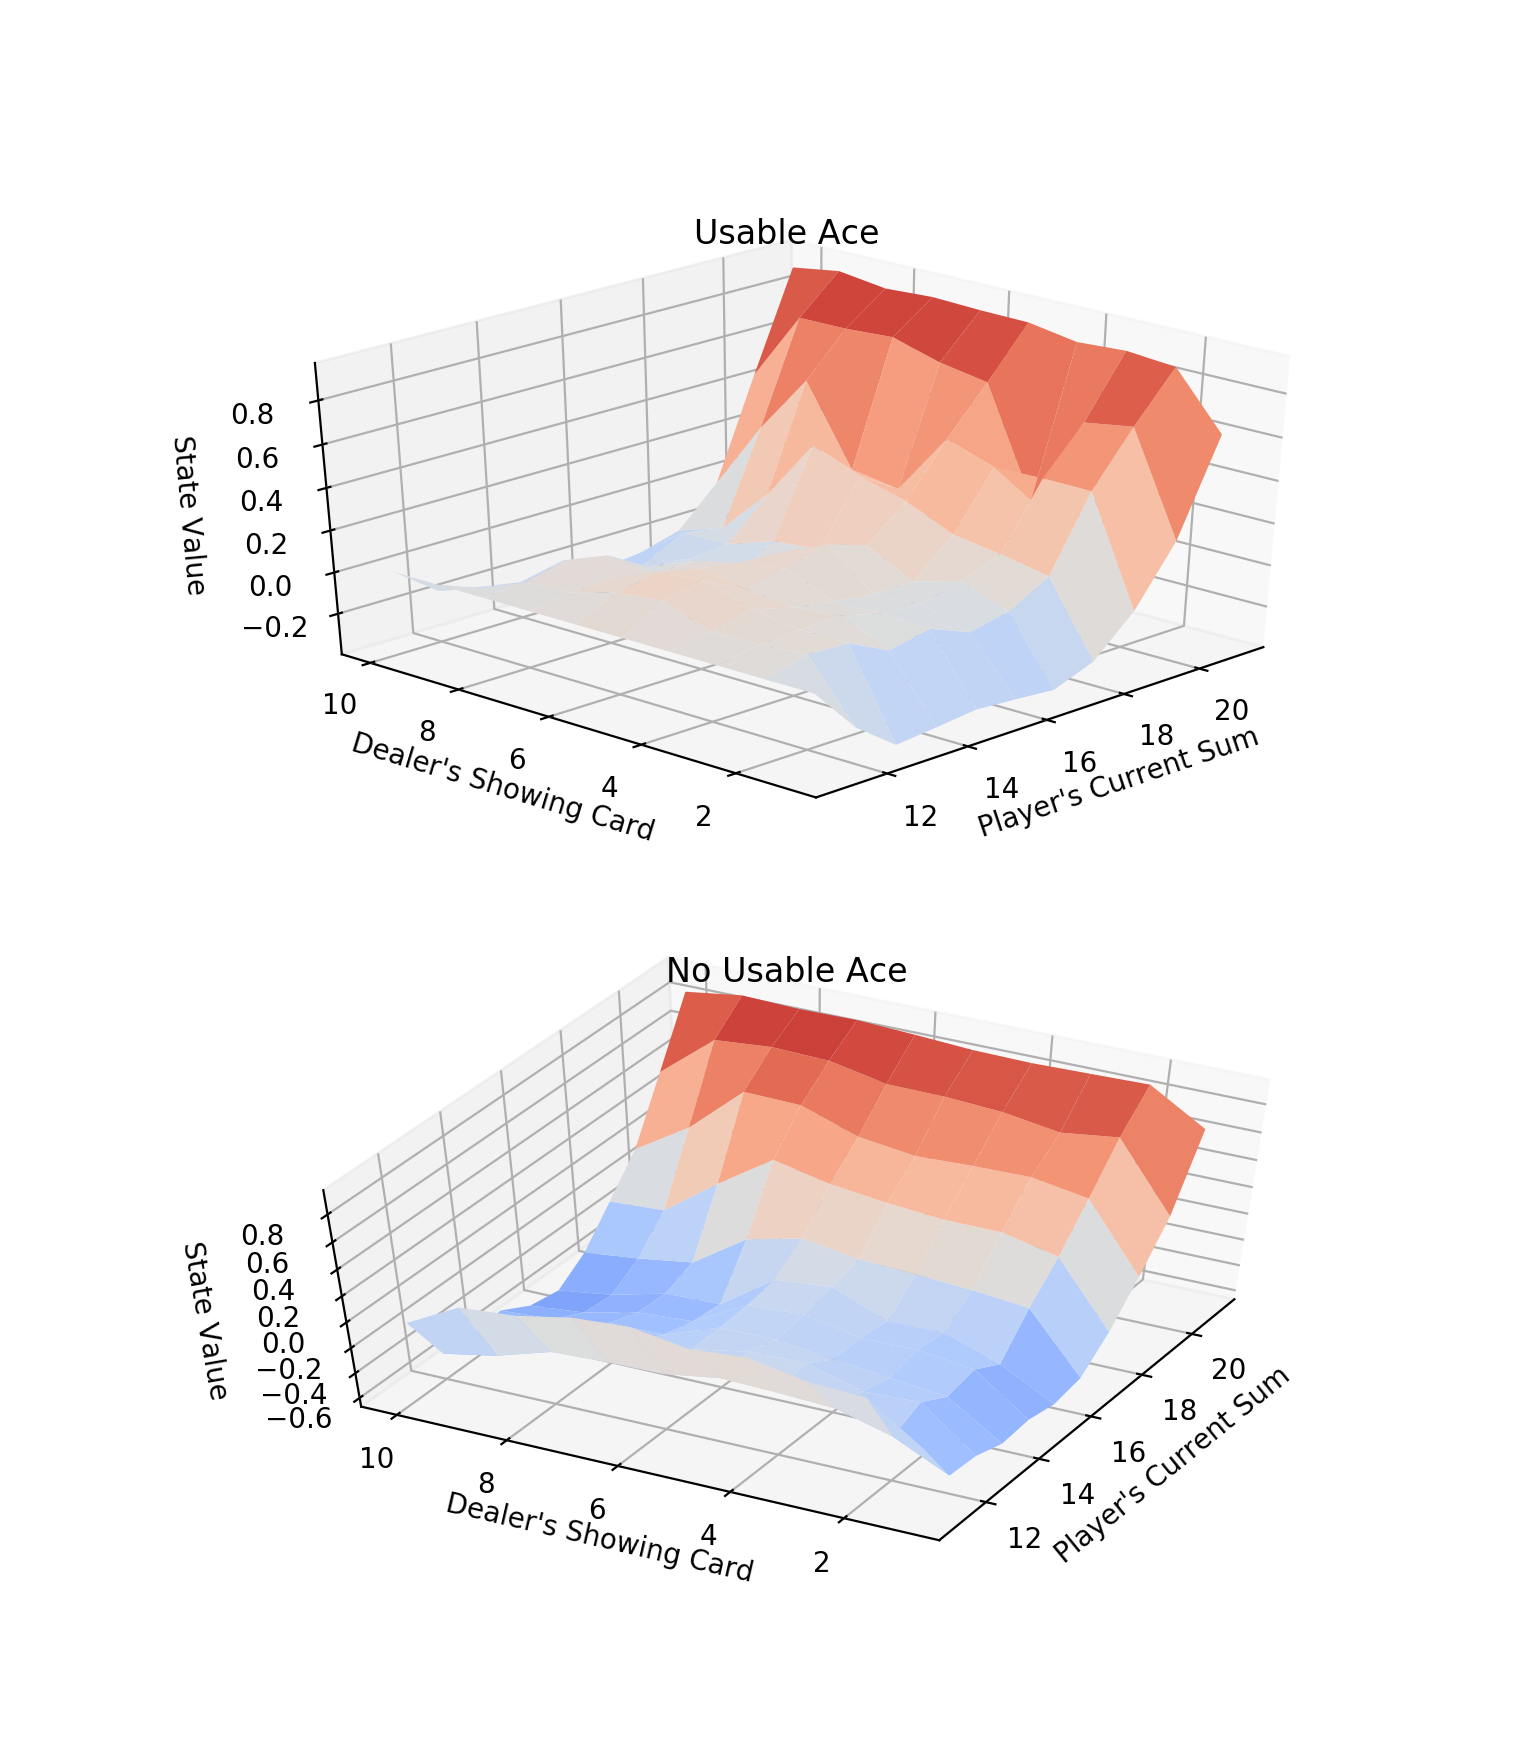
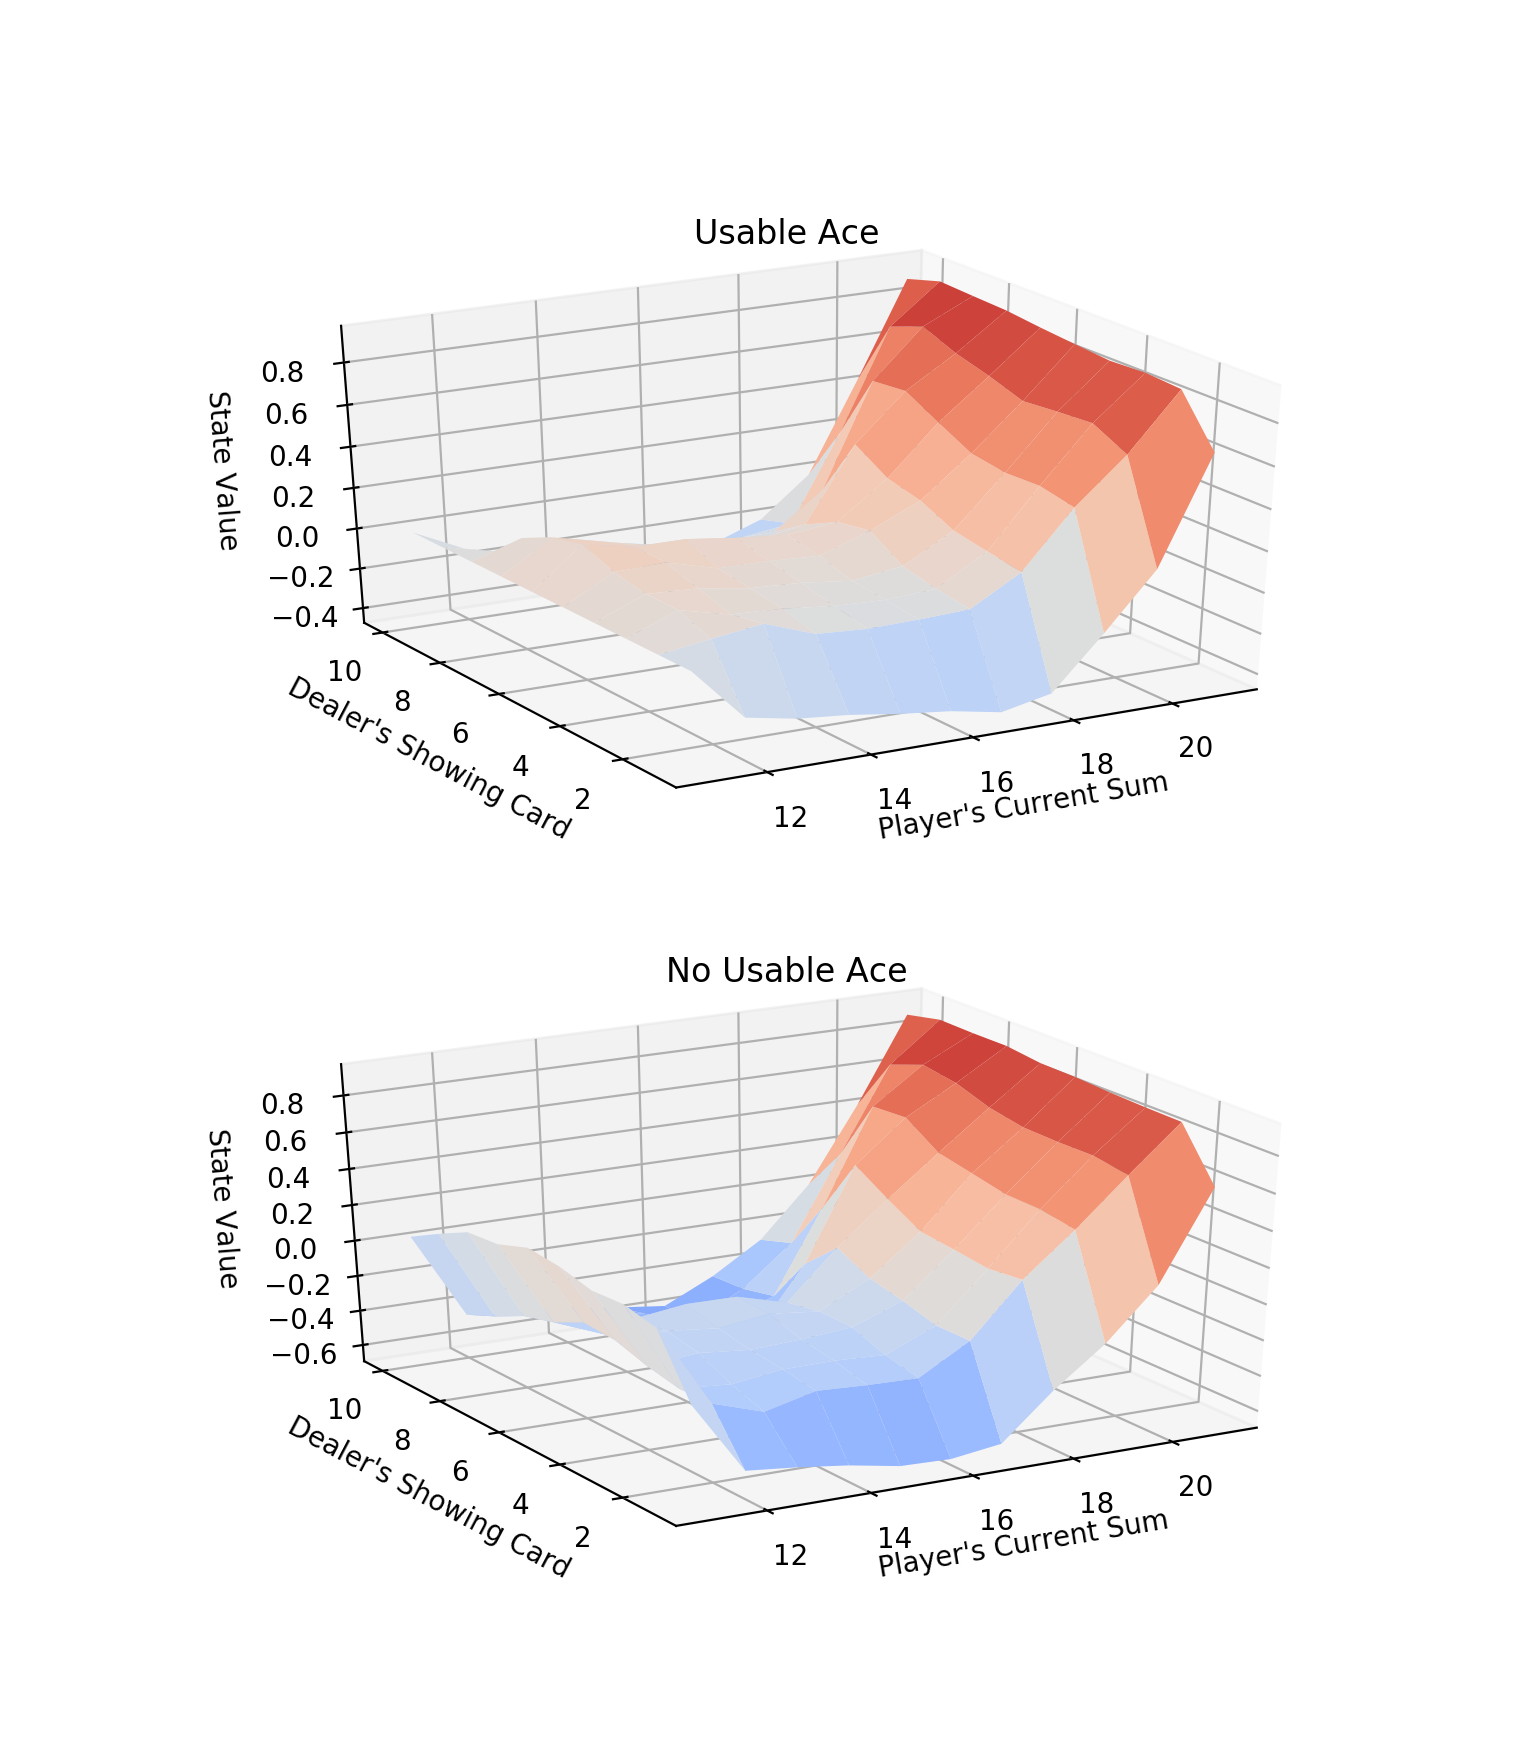
implemented reducing epsilon over time from example solution

Changed region(s): [[0.125, 0.5532, 0.8438, 0.8913], [0.0938, 0.1537, 0.8125, 0.4917]]

diff --git a/monte-carlo/play.py b/monte-carlo/play.py
@@ -95,14 +95,28 @@ def mc_prediction_q(env, num_episodes, generate_episode, gamma=1.0):
 
 
 #----------- ---
-# roll out episode, using Q and pi with epslion
-def generate_episode_using_pi(bj_env, pi, pi_epslion):
+# roll out episode, using Q and pi with epsilon
+def argmax(q_values):
+    top = float("-inf")
+    ties = []
+
+    for i in range(len(q_values)):
+        if q_values[i] > top:
+            top = q_values[i]
+            ties = []
+
+        if q_values[i] == top:
+            ties.append(i)
+
+    return np.random.choice(ties)
+
+def generate_episode_using_pi(bj_env, pi, pi_epsilon):
     episode = []
     state = bj_env.reset()
     while True:
         random_action = env.action_space.sample()
         greedy_action = pi[state] if state in pi else random_action
-        action = greedy_action if np.random.random() >= pi_epslion \
+        action = greedy_action if np.random.random() >= pi_epsilon \
             else random_action
         next_state, reward, done, info = bj_env.step(action)
         episode.append((state, action, reward))
@@ -129,13 +143,13 @@ def score_policy(policy, assessment_games = 100000):
     print ("Win rate =",  round(win_rate,1), \
         "%. Won", round(win_pc,1), "%. Lost", round(lost_pc,1), "%. Drawn", round(draw_pc,1), "%.")
 
-def mc_control(env, num_episodes, alpha, gamma=1.0):
+def mc_control(env, num_episodes, alpha, gamma=1.0, eps_start=1.0, eps_decay=.99999, eps_min=0.05):
     nA = env.action_space.n
     # initialize empty dictionary of arrays
     Q = defaultdict(lambda: np.zeros(nA))
     N = defaultdict(lambda: np.zeros(nA))
     policy = defaultdict(lambda: np.zeros(nA))
-    epslion = 0.1
+    epsilon = eps_start
     # loop over episodes
     for i_episode in range(1, num_episodes+1):
         # monitor progress
@@ -148,14 +162,14 @@ def mc_control(env, num_episodes, alpha, gamma=1.0):
             # score_policy(policy)
         
         ## TODO: complete the function
-        # roll out episode, using Q and pi with epslion
-        def generate_episode_using_pi(bj_env, pi, pi_epslion):
+        # roll out episode, using Q and pi with epsilon
+        def generate_episode_using_pi(bj_env, pi, pi_epsilon):
             episode = []
             state = bj_env.reset()
             while True:
                 random_action = env.action_space.sample()
                 greedy_action = pi[state] if state in pi else random_action
-                action = greedy_action if np.random.random() >= pi_epslion \
+                action = greedy_action if np.random.random() >= pi_epsilon \
                     else random_action
                 next_state, reward, done, info = bj_env.step(action)
                 episode.append((state, action, reward))
@@ -167,7 +181,8 @@ def mc_control(env, num_episodes, alpha, gamma=1.0):
         # sets the whole policy, but is slow
         # for s, v in Q.items():
         #     policy[s] = np.argmax(v)
-        episode = generate_episode_using_pi(env, policy, epslion)
+        epsilon = max(epsilon*eps_decay, eps_min)
+        episode = generate_episode_using_pi(env, policy, epsilon)
 
         # update Q table
         first_visit = []
@@ -184,12 +199,13 @@ def mc_control(env, num_episodes, alpha, gamma=1.0):
                 # Constant-alpha
                 Q[s][a] = (1-alpha) * Q[s][a] + alpha * G
                 # just update the policy on a change
-                policy[s] = np.argmax(Q[s])  
+                policy[s] = argmax(Q[s])  
 
     return policy, Q
 
 
-policy, Q = mc_control(env, 1000000, .003, 1.)
+policy, Q = mc_control(env, 30000000, .0003, 1.)
+# policy, Q = mc_control(env, 1000000, .003, 1.)
 # policy, Q = mc_control(env, 1000000, .1, 1.)
 # policy, Q = mc_control(env, 500000, .2, .95)
 # policy, Q = mc_control(env, 500, .2, .95)
